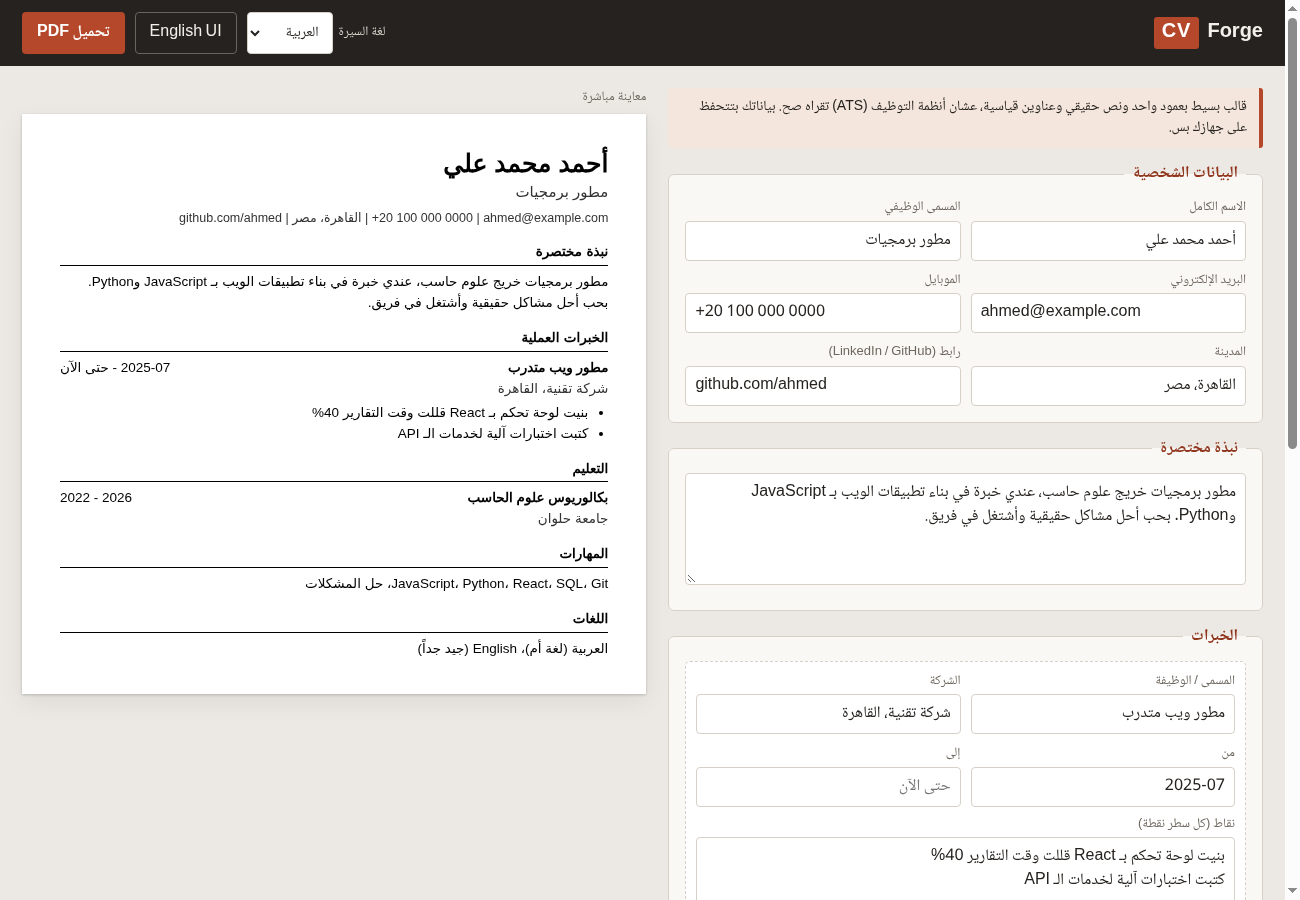
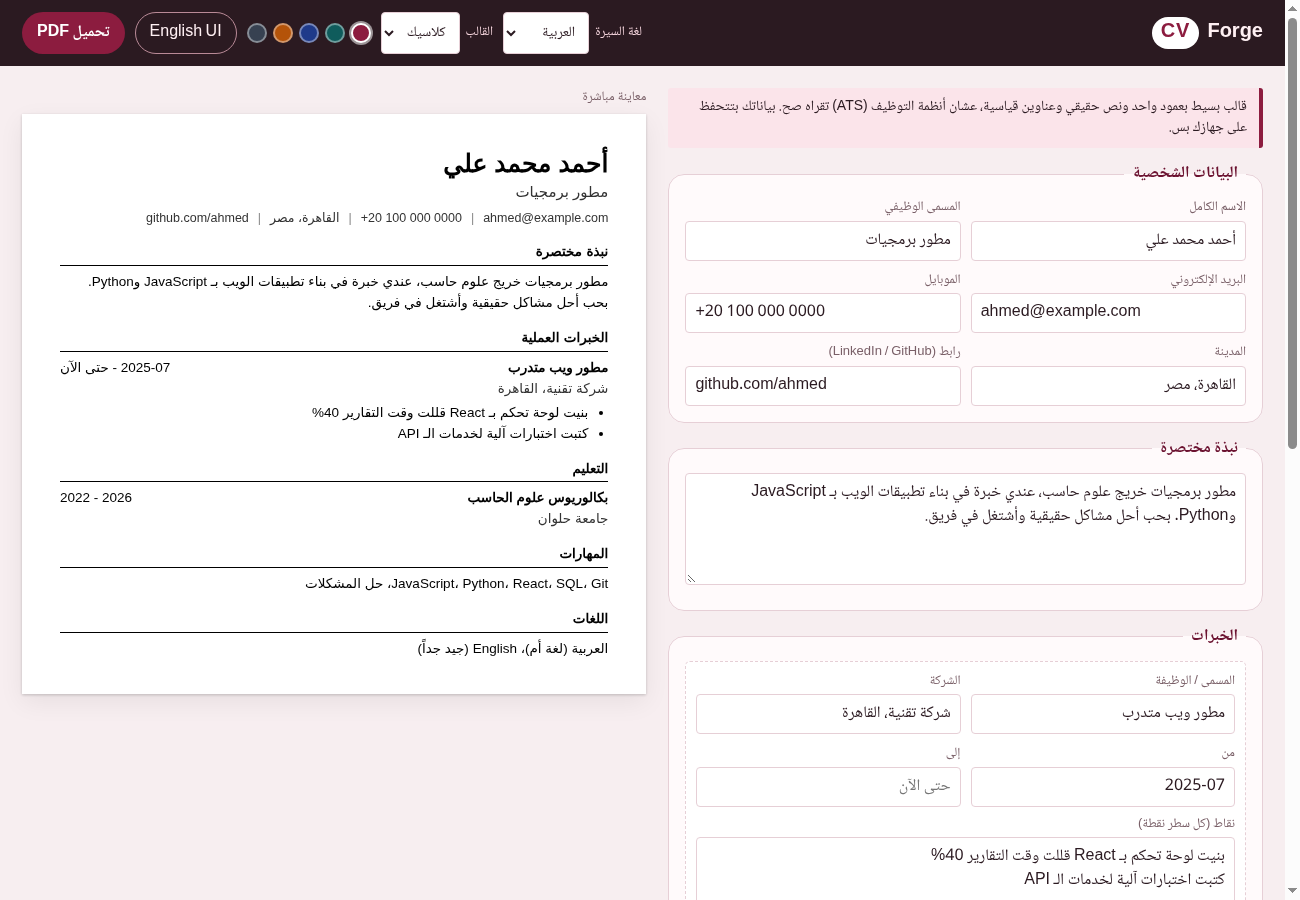
Refresh README screenshots, add social preview

diff --git a/index.html b/index.html
@@ -5,7 +5,16 @@
 <meta name="viewport" content="width=device-width,initial-scale=1">
 <title>CVForge | مولد السيرة الذاتية</title>
 <link rel="stylesheet" href="style.css">
-</head>
+    <meta property="og:type" content="website">
+    <meta property="og:title" content="CVForge | مولد السيرة الذاتية">
+    <meta property="og:description" content="CVForge | مولد السيرة الذاتية">
+    <meta property="og:url" content="https://mostaaafaomran-ctrl.github.io/cvforge/">
+    <meta property="og:image" content="https://mostaaafaomran-ctrl.github.io/cvforge/og.png">
+    <meta property="og:image:width" content="1200">
+    <meta property="og:image:height" content="630">
+    <meta name="twitter:card" content="summary_large_image">
+    <meta name="twitter:image" content="https://mostaaafaomran-ctrl.github.io/cvforge/og.png">
+  </head>
 <body>
 <header class="top">
   <div class="brand"><span class="mark">CV</span><b>Forge</b></div>
